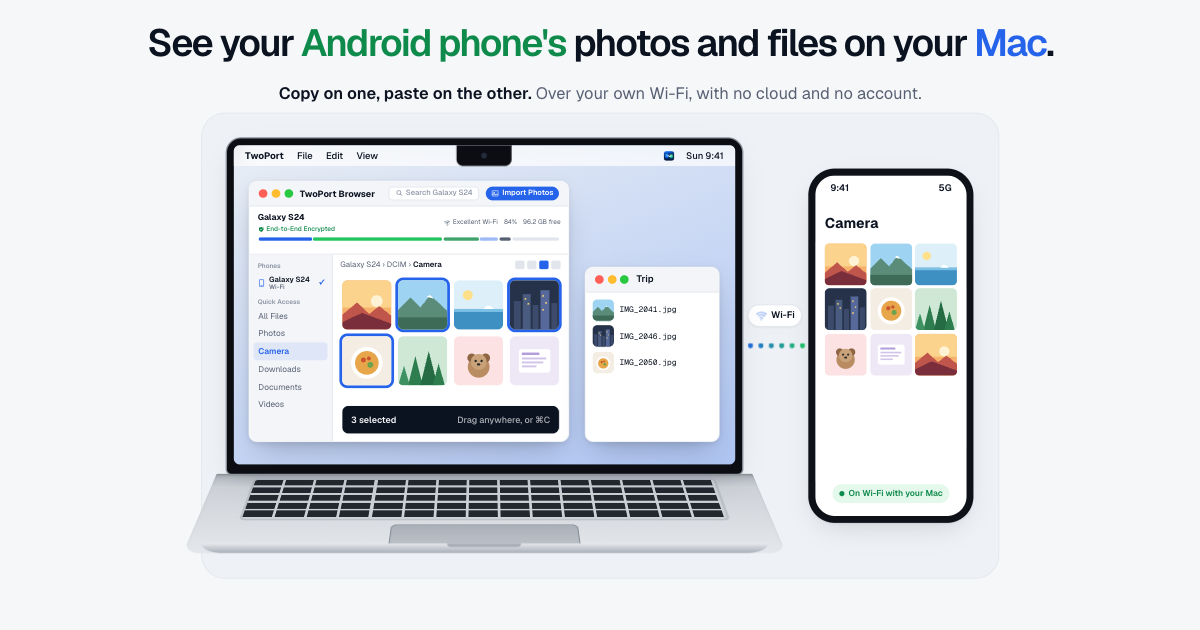
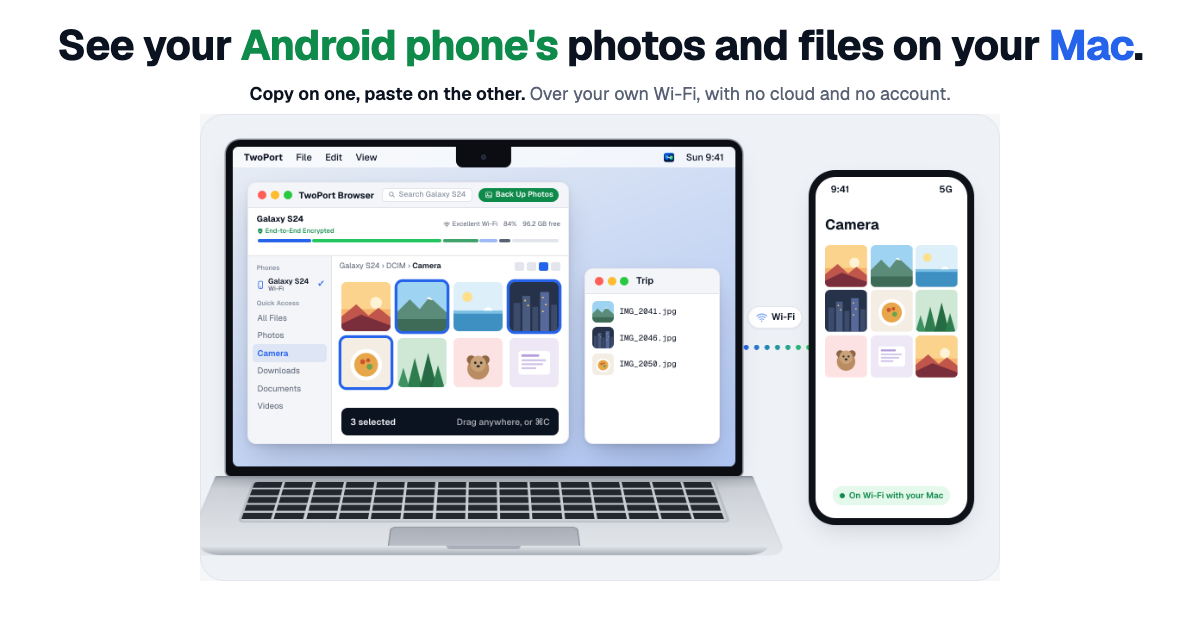
Website and store: board escaping, pair and Android pages, Back Up wording, privacy and terms; Play listing and screenshots
- Feature board: escape quotes (a title could add an attribute to the vote
  button); new ideas show after review (Supabase: hidden by default, public
  inserts limited to the form's fields — applied to production).
- pair.html (where a camera scan of the Mac's code lands; drops the #secret),
  android.html (Play link, LIVE on launch day), revoked-keys.json.
- "Back Up Photos" in the demo, feature list and price card; FAQ on one phone
  with two Macs; new share card (store/og makes it).
- Privacy: in-app suggestions, Report a Bug, update checks, the cancelled-key
  list, GitHub. Terms: governing law.
- Play listing: 7-day trial then $29 once (no "Pro"), Data safety notes, four
  screenshots made with a stand-in Mac (no real names or files).

diff --git a/index.html b/index.html
@@ -119,7 +119,7 @@
 
               <div class="scene s1 on">
                 <div class="win b-win">
-                  <div class="win-bar b-tool"><div class="lights"><i></i><i></i><i></i></div><b>TwoPort Browser</b><span class="b-search"><svg viewBox="0 0 24 24"><circle cx="10.5" cy="10.5" r="6" fill="none" stroke="currentColor" stroke-width="2.4"/><path d="M15 15l5 5" stroke="currentColor" stroke-width="2.4" stroke-linecap="round"/></svg>Search Galaxy S24</span><span class="b-import"><svg><use href="#img"/></svg>Import Photos</span></div>
+                  <div class="win-bar b-tool"><div class="lights"><i></i><i></i><i></i></div><b>TwoPort Browser</b><span class="b-search"><svg viewBox="0 0 24 24"><circle cx="10.5" cy="10.5" r="6" fill="none" stroke="currentColor" stroke-width="2.4"/><path d="M15 15l5 5" stroke="currentColor" stroke-width="2.4" stroke-linecap="round"/></svg>Search Galaxy S24</span><span class="b-import"><svg><use href="#img"/></svg>Back Up Photos</span></div>
                   <div class="b-dev">
                     <div><b>Galaxy S24</b><span class="b-e2e"><svg viewBox="0 0 24 24"><path d="M12 2.5l8 3v6c0 5-3.4 8.6-8 10-4.6-1.4-8-5-8-10v-6z" fill="currentColor"/><path d="M8.5 12l2.4 2.4 4.6-4.8" fill="none" stroke="#fff" stroke-width="2.2" stroke-linecap="round" stroke-linejoin="round"/></svg>End-to-End Encrypted</span></div>
                     <div class="b-stats"><span><svg><use href="#wifi"/></svg>Excellent Wi-Fi</span><span>84%</span><span>96.2 GB free</span></div>
@@ -196,7 +196,7 @@
 
               <div class="scene s6">
                 <div class="win imp">
-                  <div class="win-bar"><div class="lights"><i></i><i></i><i></i></div>Import Photos <span>› Galaxy S24</span></div>
+                  <div class="win-bar"><div class="lights"><i></i><i></i><i></i></div>Back Up Photos <span>› Galaxy S24</span></div>
                   <div class="imp-body">
                     <div class="imp-top"><b>38 new since 2 Sep</b><span>Already on this Mac: 412</span></div>
                     <div class="imp-strip">
@@ -207,7 +207,7 @@
                   </div>
                 </div>
                 <div class="win imp-tree">
-                  <div class="win-bar"><div class="lights"><i></i><i></i><i></i></div>TwoPort Imports</div>
+                  <div class="win-bar"><div class="lights"><i></i><i></i><i></i></div>TwoPort</div>
                   <div class="tree-rows">
                     <div><span class="fold sm"></span>Galaxy S24</div>
                     <div class="in"><span class="fold sm"></span>2026-08<small>412</small></div>
@@ -279,7 +279,7 @@
                   <svg class="t ph"><use href="#p1"/></svg><svg class="t ph"><use href="#p5"/></svg><svg class="t ph"><use href="#p3"/></svg>
                   <svg class="t ph"><use href="#p4"/></svg><svg class="t ph"><use href="#p8"/></svg><svg class="t ph"><use href="#p2"/></svg>
                 </div>
-                <div class="p-foot"><span class="chip green"><i></i>Your Mac is importing 38 new</span></div>
+                <div class="p-foot"><span class="chip green"><i></i>Your Mac is backing up 38 new</span></div>
               </div>
 
             </div>
@@ -399,7 +399,7 @@
         </article>
         <article class="fgroup">
           <header class="fgroup-head"><span class="ico green"><svg><use href="#backup"/></svg></span><h3>Photos</h3><span class="fgroup-n">3</span></header>
-          <details class="fx"><summary><svg class="dir" role="img" aria-label="Phone to Mac"><use href="#d-tomac"/></svg><span class="fx-name">Import only new photos</span></summary><p>One click brings over what&#x27;s new since last time. Nothing is copied twice.</p></details>
+          <details class="fx"><summary><svg class="dir" role="img" aria-label="Phone to Mac"><use href="#d-tomac"/></svg><span class="fx-name">Back up only new photos</span></summary><p>One click brings over what&#x27;s new since last time. Nothing is copied twice.</p></details>
           <details class="fx"><summary><svg class="dir" role="img" aria-label="Phone to Mac"><use href="#d-tomac"/></svg><span class="fx-name">Original dates kept</span></summary><p>Photos keep the day they were taken, not the day they were copied.</p></details>
           <details class="fx"><summary><svg class="dir" role="img" aria-label="Phone to Mac"><use href="#d-tomac"/></svg><span class="fx-name">Sorted by month</span></summary><p>Into Pictures › TwoPort, one folder per month. Or pick your own folder.</p></details>
         </article>
@@ -464,7 +464,7 @@
           <ul class="list">
             <li><span><b>All <span data-count="all">26</span> features</b>, including:</span></li>
             <li>Your whole phone on your Mac: browse, search, play videos</li>
-            <li>Import new photos, sorted by month</li>
+            <li>One-click photo backup, sorted by month</li>
             <li>About 4× faster with a cable</li>
             <li>Clipboard history, photos and files too</li>
             <li>Several phones at once</li>
@@ -522,6 +522,7 @@
         <details><summary>Does it show my phone's screen on the Mac?</summary><p>No. TwoPort moves things between the two: photos, videos, files and what you copy. Your phone's screen and apps stay on the phone.</p></details>
         <details><summary>Is it private?</summary><p>Yes. Files go straight from your phone to your Mac, encrypted. Nothing is uploaded and there's no account.</p></details>
         <details><summary>Which phones and Macs?</summary><p>Any phone with Android 8 or later, and a Mac with macOS 14 Sonoma or later.</p></details>
+        <details><summary>Can one phone work with two Macs?</summary><p>One at a time. A phone pairs with one Mac; scan another Mac's code and the first one stops reaching it. A Mac can have several phones, and one licence covers up to three of your Macs.</p></details>
         <details><summary>Does it work with iPhone?</summary><p>The app is for Android. An iPhone can still send photos and text to your Mac with Quick Send, from its web browser.</p></details>
         <details><summary>Can a friend send me photos without the app?</summary><p>Yes. Your Mac shows a code, they scan it with their phone's camera, and they pick photos in the web browser. It works on Android phones and iPhones.</p></details>
         <details><summary>Is it a subscription?</summary><p>No. You try it free for 7 days, then pay $29 once. That covers up to three of your Macs, with free updates for all of TwoPort 1.</p></details>

diff --git a/privacy.html b/privacy.html
@@ -39,7 +39,7 @@
       <a class="back" href="./">← TwoPort home</a>
       <span class="kicker">Legal</span>
       <h1>Privacy Policy</h1>
-      <p class="lede">Last updated 3 October 2026.</p>
+      <p class="lede">Last updated 15 October 2026.</p>
     </div>
   </section>
 
@@ -53,11 +53,13 @@
     <p>Files, photos, and clipboard contents you transfer with TwoPort travel directly between your phone and your Mac over your local network. We don't operate a relay server for this traffic, we don't store copies of it, and we can't read it. The Android app never uploads clipboard or file contents anywhere — the on-device Accessibility permission it can use is only to notice when you've copied something, so it can offer to send it to your Mac; it does not read or transmit the contents anywhere outside the transfer itself.</p>
 
     <h2>What we do collect</h2>
-    <p>We don't run analytics, tracking, or crash-reporting inside the TwoPort apps. The only data we hold is what's needed to sell and support licences:</p>
+    <p>We don't run analytics, tracking, or automatic crash-reporting inside the TwoPort apps. The only data we hold is what's needed to sell and support licences, and what you choose to send us:</p>
     <ul>
       <li><strong>Purchases.</strong> If you buy TwoPort, our merchant of record, Dodo Payments, collects your email address and payment details to process the transaction and handle tax. We receive your email address and the licence key Dodo Payments generates for you, so we can help you if you lose it. We never receive or store your card details — that's handled entirely by Dodo Payments.</li>
-      <li><strong>Licence checks.</strong> When you enter a licence key, the Mac app sends it to Dodo Payments to activate it, along with your Mac's name so you can tell your Macs apart. After that it checks the key with Dodo about once a week, sending only the key, to confirm it hasn't been refunded. If the check can't get through, nothing changes and TwoPort keeps working.</li>
-      <li><strong>Support requests.</strong> If you email us, we keep that correspondence to help you, for as long as is reasonably needed.</li>
+      <li><strong>Licence checks.</strong> When you enter a licence key, the Mac app sends it to Dodo Payments to activate it, along with your Mac's name so you can tell your Macs apart. After that it checks the key with Dodo about once a week, sending only the key, to confirm it hasn't been refunded. If the check can't get through, nothing changes and TwoPort keeps working. If you use a free or gifted key (one that starts with <code>TP1-</code>), the app instead downloads the short public list of cancelled keys from this website about once a week; it sends nothing about you or your key.</li>
+      <li><strong>Support requests and bug reports.</strong> If you email us, we keep that correspondence to help you, for as long as is reasonably needed. <em>Report a Bug</em> in the Mac app only prepares an email for you to send: it attaches TwoPort's logs (file and phone names and what TwoPort did, never what's inside your files or what you copied) and any TwoPort crash reports from your Mac. Nothing is sent unless you send that email.</li>
+      <li><strong>Feature suggestions in the apps.</strong> <em>Suggest a Feature</em> in the Mac and Android apps sends what you type (and, on the Mac, an email address if you add one) to the same feature-request board as this website. The email is never shown publicly.</li>
+      <li><strong>Updates.</strong> The Mac app downloaded from this website checks <code>twoport.app</code> about once a day for a newer version, and downloads updates from GitHub, which hosts our files. Like any web request, these show your IP address to GitHub; they carry nothing about you or your devices.</li>
       <li><strong>The website.</strong> The waitlist and feature-request forms on this site store only what you type into them (e.g. an email if you provide one) so we can follow up or tally votes. If you reached the site through a link with a tag like <code>?ref=reddit</code>, the waitlist also saves that one word, so we know which posts bring people.</li>
     </ul>
 
@@ -65,7 +67,7 @@
     <p>Both apps ask for local network access. This is used only to discover and connect to your own paired devices on your Wi-Fi network — it is not used to browse or scan the wider internet.</p>
 
     <h2>Third parties</h2>
-    <p>We use Dodo Payments to process payments and to issue and check licence keys, and Supabase to back the website's waitlist, feature-request and free-licence forms. None of these providers receive the contents of anything you transfer through the app.</p>
+    <p>We use Dodo Payments to process payments and to issue and check licence keys, Supabase to back the waitlist, feature-request and free-licence forms (on this site and in the apps), and GitHub to host this website and the Mac app's downloads. None of these providers receive the contents of anything you transfer through the app.</p>
 
     <h2>Your choices</h2>
     <p>You can use TwoPort's 7-day trial without ever giving us any information. If you'd like your purchase or support records deleted, email us and we'll remove them, subject to what we're legally required to keep for tax and accounting purposes.</p>

diff --git a/pair.html b/pair.html
@@ -1,0 +1,76 @@
+<!doctype html>
+<html lang="en">
+<head>
+<meta charset="utf-8">
+<meta name="viewport" content="width=device-width, initial-scale=1, viewport-fit=cover">
+<meta name="color-scheme" content="only light">
+<meta name="robots" content="noindex">
+<title>Pair with TwoPort</title>
+<meta name="referrer" content="no-referrer">
+<!-- Where a phone's own camera lands when it scans the Mac's pairing code
+     (PairingQRView.swift: https://twoport.app/pair#<code>). The code after
+     # never reaches this server and the page never reads it; it's dropped
+     from the address bar and history straight away. -->
+<script>
+  if (location.hash) history.replaceState(null, '', location.pathname);
+</script>
+<link rel="icon" type="image/png" href="assets/favicon.png">
+<link rel="preconnect" href="https://fonts.googleapis.com">
+<link rel="preconnect" href="https://fonts.gstatic.com" crossorigin>
+<link rel="stylesheet" href="https://fonts.googleapis.com/css2?family=Geist:wght@400;500;600;700&family=Geist+Mono:wght@400;500&display=swap">
+<link rel="stylesheet" href="assets/site.css">
+</head>
+<body>
+
+<header class="nav">
+  <div class="wrap nav-in">
+    <a class="brand" href="./"><img src="assets/app-icon.png" alt="" width="28" height="28">TwoPort</a>
+    <nav class="nav-links" aria-label="Sections">
+      <a href="./#how">How it works</a>
+      <a href="./#pricing">Pricing</a>
+      <a href="./#faq">Questions</a>
+    </nav>
+    <a class="btn btn-primary" href="./#early-access">Get early access</a>
+  </div>
+</header>
+
+<main id="top">
+  <section class="page-hero">
+    <div class="wrap">
+      <a class="back" href="./">← TwoPort home</a>
+      <span class="kicker">Pairing</span>
+      <h1>Scan this code from TwoPort</h1>
+      <p class="lede">That's the pairing code your Mac shows. Your camera can't pair by itself: TwoPort on this phone does it.</p>
+    </div>
+  </section>
+
+  <section class="wrap legal">
+    <h2>On an Android phone</h2>
+    <ol>
+      <li>Get TwoPort from Google Play (free).</li>
+      <li>Open it and tap <strong>Scan code</strong>.</li>
+      <li>Point it at the code on your Mac. That's it.</li>
+    </ol>
+  </section>
+
+  <section class="wrap">
+    <div class="cta-row"><a class="btn btn-primary" href="android.html">Get TwoPort on Google Play</a></div>
+  </section>
+
+  <section class="wrap legal">
+    <h2 id="iphone">On an iPhone</h2>
+    <p>TwoPort's phone app is for Android. From an iPhone you can still send photos to the Mac with <strong>Quick Send</strong>: on the Mac, click TwoPort in the menu bar, choose Quick Send, and scan that code with the iPhone's camera.</p>
+  </section>
+</main>
+
+<footer>
+  <div class="wrap foot">
+    <a class="brand" href="./"><img src="assets/app-icon.png" alt="" width="24" height="24" style="width:24px;height:24px">TwoPort</a>
+    <nav aria-label="Footer"><a href="./#how">How it works</a><a href="./#pricing">Pricing</a><a href="compare.html">Compare apps</a><a href="requests.html">Feature requests</a><a href="terms.html">Terms</a><a href="privacy.html">Privacy</a><a href="refund.html">Refunds</a></nav>
+    <span>© 2026 TwoPort</span>
+  </div>
+</footer>
+
+<script src="assets/site.js"></script>
+</body>
+</html>

diff --git a/android.html b/android.html
@@ -1,0 +1,71 @@
+<!doctype html>
+<html lang="en">
+<head>
+<meta charset="utf-8">
+<meta name="viewport" content="width=device-width, initial-scale=1, viewport-fit=cover">
+<meta name="color-scheme" content="only light">
+<meta name="robots" content="noindex">
+<title>TwoPort for Android</title>
+<!-- The Mac app's first-run pairing ("Get TwoPort on your phone · Google
+     Play") and twoport.app/pair open twoport.app/android, so where it leads
+     can change without an app update. LIVE = true on launch day, once the
+     Play listing is public; until then the page says it's coming. -->
+<script>
+  var LIVE = false;
+  var PLAY = "https://play.google.com/store/apps/details?id=app.twoport.android";
+  if (LIVE) location.replace(PLAY);
+</script>
+<link rel="icon" type="image/png" href="assets/favicon.png">
+<link rel="preconnect" href="https://fonts.googleapis.com">
+<link rel="preconnect" href="https://fonts.gstatic.com" crossorigin>
+<link rel="stylesheet" href="https://fonts.googleapis.com/css2?family=Geist:wght@400;500;600;700&family=Geist+Mono:wght@400;500&display=swap">
+<link rel="stylesheet" href="assets/site.css">
+</head>
+<body>
+
+<header class="nav">
+  <div class="wrap nav-in">
+    <a class="brand" href="./"><img src="assets/app-icon.png" alt="" width="28" height="28">TwoPort</a>
+    <nav class="nav-links" aria-label="Sections">
+      <a href="./#how">How it works</a>
+      <a href="./#pricing">Pricing</a>
+      <a href="./#faq">Questions</a>
+    </nav>
+    <a class="btn btn-primary" href="./#early-access">Get early access</a>
+  </div>
+</header>
+
+<main id="top">
+  <section class="page-hero">
+    <div class="wrap">
+      <a class="back" href="./">← TwoPort home</a>
+      <span class="kicker">Android</span>
+      <h1>TwoPort for Android</h1>
+      <p class="lede">Free on Google Play. Android 8 or later.</p>
+    </div>
+  </section>
+
+  <section class="wrap legal">
+    <p>The Android app is on its way to Google Play. Leave your email and we'll write the day it's there.</p>
+    <p>Have a question in the meantime? <a href="mailto:contact@twoport.app">contact@twoport.app</a></p>
+  </section>
+
+  <section class="wrap">
+    <div class="closing">
+      <h2>From your <span class="phone-word">phone</span> to your <span class="mac-word">Mac</span>, and back.</h2>
+      <div class="cta-row"><a class="btn btn-primary" href="./#early-access">Tell me when it's there</a></div>
+    </div>
+  </section>
+</main>
+
+<footer>
+  <div class="wrap foot">
+    <a class="brand" href="./"><img src="assets/app-icon.png" alt="" width="24" height="24" style="width:24px;height:24px">TwoPort</a>
+    <nav aria-label="Footer"><a href="./#how">How it works</a><a href="./#pricing">Pricing</a><a href="compare.html">Compare apps</a><a href="requests.html">Feature requests</a><a href="terms.html">Terms</a><a href="privacy.html">Privacy</a><a href="refund.html">Refunds</a></nav>
+    <span>© 2026 TwoPort</span>
+  </div>
+</footer>
+
+<script src="assets/site.js"></script>
+</body>
+</html>

diff --git a/assets/site.js b/assets/site.js
@@ -502,12 +502,15 @@
     try { voter = localStorage.getItem('tp-voter'); if (!voter) { voter = 'v-' + Math.random().toString(36).slice(2, 12) + Date.now().toString(36); localStorage.setItem('tp-voter', voter); } } catch (err) { voter = 'v-' + Math.random().toString(36).slice(2, 14); }
     var voted = {};
     try { voted = JSON.parse(localStorage.getItem('tp-voted') || '{}'); } catch (err) {}
-    var esc = function (t) { var d = document.createElement('div'); d.textContent = t == null ? '' : String(t); return d.innerHTML; };
+    // Text from the board goes into attributes as well as elements, so quotes
+    // are escaped too: textContent → innerHTML alone leaves " as it is, and a
+    // title could close aria-label="…" and add an onmouseover.
+    var esc = function (t) { return String(t == null ? '' : t).replace(/&/g, '&amp;').replace(/</g, '&lt;').replace(/>/g, '&gt;').replace(/"/g, '&quot;').replace(/'/g, '&#39;'); };
     var render = function (rows) {
       if (!rows.length) { board.innerHTML = '<li class="empty">No requests yet. Be the first.</li>'; return; }
       board.innerHTML = rows.map(function (r) {
         var on = !!voted[r.id];
-        return '<li><button class="vote" type="button" data-id="' + r.id + '" aria-pressed="' + on + '" aria-label="Vote for ' + esc(r.title) + ', ' + r.votes + ' votes"><b>' + r.votes + '</b><span>' + (on ? 'voted' : 'vote') + '</span></button>' +
+        return '<li><button class="vote" type="button" data-id="' + esc(r.id) + '" aria-pressed="' + on + '" aria-label="Vote for ' + esc(r.title) + ', ' + esc(r.votes) + ' votes"><b>' + esc(r.votes) + '</b><span>' + (on ? 'voted' : 'vote') + '</span></button>' +
           '<div><h4>' + esc(r.title) + '</h4>' + (r.details ? '<p>' + esc(r.details) + '</p>' : '') + '<span class="status ' + esc(r.status).replace(' ', '-') + '">' + esc(r.status) + '</span></div></li>';
       }).join('');
     };
@@ -540,7 +543,7 @@
         title: title, details: document.getElementById('fr-details').value.trim() || null, email: email || null
       }) }).then(function (r) {
         busy(btn, false);
-        if (r.status === 201) { confirmed(fr, 'Thanks! Your idea is on the board.', [['', title, ' is listed now, and anyone can vote for it.']], 'Suggest another idea'); load(); }
+        if (r.status === 201) confirmed(fr, 'Thanks! We have your idea.', [['', title, " goes on the board once we've had a look, usually within a day. Then anyone can vote for it."]], 'Suggest another idea');
         else formSay(msg, "That didn't go through. Try a shorter title.");
       }).catch(function () { busy(btn, false); formSay(msg, "Couldn't reach the board. Check your connection and try again."); });
     });

diff --git a/assets/site.css b/assets/site.css
@@ -753,7 +753,7 @@ footer { border-top: 1px solid var(--line); padding-block: 2rem 2.6rem; color: v
 .b-tool b { font-weight: 700; font-size: .95em; }
 .b-search { margin-left: auto; display: flex; align-items: center; gap: .4em; height: 1.8em; padding: 0 .7em; min-width: 30%; border-radius: .5em; background: var(--window); border: 1px solid var(--line); color: var(--faint) !important; font-size: .8em; font-weight: 500; }
 .b-search svg { width: 1em; height: 1em; }
-.b-import { display: flex; align-items: center; gap: .35em; height: 1.8em; padding: 0 .75em; border-radius: 2em; background: var(--mac); color: #fff !important; font-size: .8em; font-weight: 600 !important; white-space: nowrap; }
+.b-import { display: flex; align-items: center; gap: .35em; height: 1.8em; padding: 0 .75em; border-radius: 2em; background: var(--phone); color: #fff !important; font-size: .8em; font-weight: 600 !important; white-space: nowrap; }
 .b-import svg { width: 1.1em; height: 1.1em; }
 .b-dev { display: flex; justify-content: space-between; align-items: center; padding: .55em 1em .35em; font-size: .85em; }
 .b-dev > div:first-child { display: grid; gap: .1em; }

diff --git a/terms.html b/terms.html
@@ -39,7 +39,7 @@
       <a class="back" href="./">← TwoPort home</a>
       <span class="kicker">Legal</span>
       <h1>Terms of Service</h1>
-      <p class="lede">Last updated 10 October 2026.</p>
+      <p class="lede">Last updated 15 October 2026.</p>
     </div>
   </section>
 
@@ -66,6 +66,9 @@
 
     <h2>Limitation of liability</h2>
     <p>To the maximum extent permitted by law, we are not liable for indirect, incidental, or consequential damages arising from your use of TwoPort, including loss of data. Nothing in these terms limits liability that cannot be limited under applicable law.</p>
+
+    <h2>Governing law</h2>
+    <p>These terms are governed by the laws of India. If you buy as a consumer, you keep any protection the consumer laws of the country you live in give you that can't be waived by agreement.</p>
 
     <h2>Changes</h2>
     <p>We may update these terms as the app evolves. If we make a material change, we'll update the date at the top of this page. Continuing to use TwoPort after a change means you accept the updated terms.</p>

diff --git a/requests.html b/requests.html
@@ -39,7 +39,7 @@
       <a class="back" href="./">← TwoPort home</a>
       <span class="kicker">Feature requests</span>
       <h1>Tell us what to build next.</h1>
-      <p class="lede">Vote for what you want most, or suggest something new. The most-voted ideas get built first.</p>
+      <p class="lede">Vote for what you want most, or suggest something new. New ideas show here once we've had a look. The most-voted ideas get built first.</p>
     </div>
   </section>
 

diff --git a/README.md b/README.md
@@ -11,7 +11,16 @@ Live at **https://twoport.app**, served by GitHub Pages from the public repo `wh
 ## Before it goes live
 
 - **Download and checkout.** The pages collect the waitlist until launch. The launch version (branch `launch-site`) has the Mac download and Google Play buttons and turns on the $29 checkout in `buy.html` (`PRODUCT`); the Mac app's Buy button opens twoport.app/buy, and Dodo returns buyers to `thanks.html` with their key.
-- **Social preview.** og: tags are in; `og:image` is the 512px app icon. A 1200×630 share image would look better.
+- **Google Play.** `android.html` (twoport.app/android) says "on its way" until `LIVE = true`; the Mac app's first-run pairing and `pair.html` link there. Switch it on the day the Play listing is public.
+- **Social preview.** The home page has a 1200×630 card (`assets/og.png`); the other pages use the app icon.
+
+## Pages the apps rely on
+
+- `pair.html`: where a phone's own camera lands when it scans the Mac's pairing code (`https://twoport.app/pair#…`). It never reads the part after `#` (the pairing secret) and drops it from the address bar.
+- `android.html`: the Android app (Google Play once live).
+- `buy.html`, `thanks.html`: checkout and the key after paying.
+- `revoked-keys.json`: `{"ids": [...]}`, ids of free/gifted `TP1-` keys that were passed around. The Mac app reads it about once a week and pauses a listed key. To cancel one: add its id (printed by `tools/license/issue-license.swift`, and in `~/.twoport/issued-licences.csv`), commit, deploy.
+- `appcast.xml`: Sparkle's update feed, written by `tools/release-mac.sh --publish`.
 
 ## Design
 
